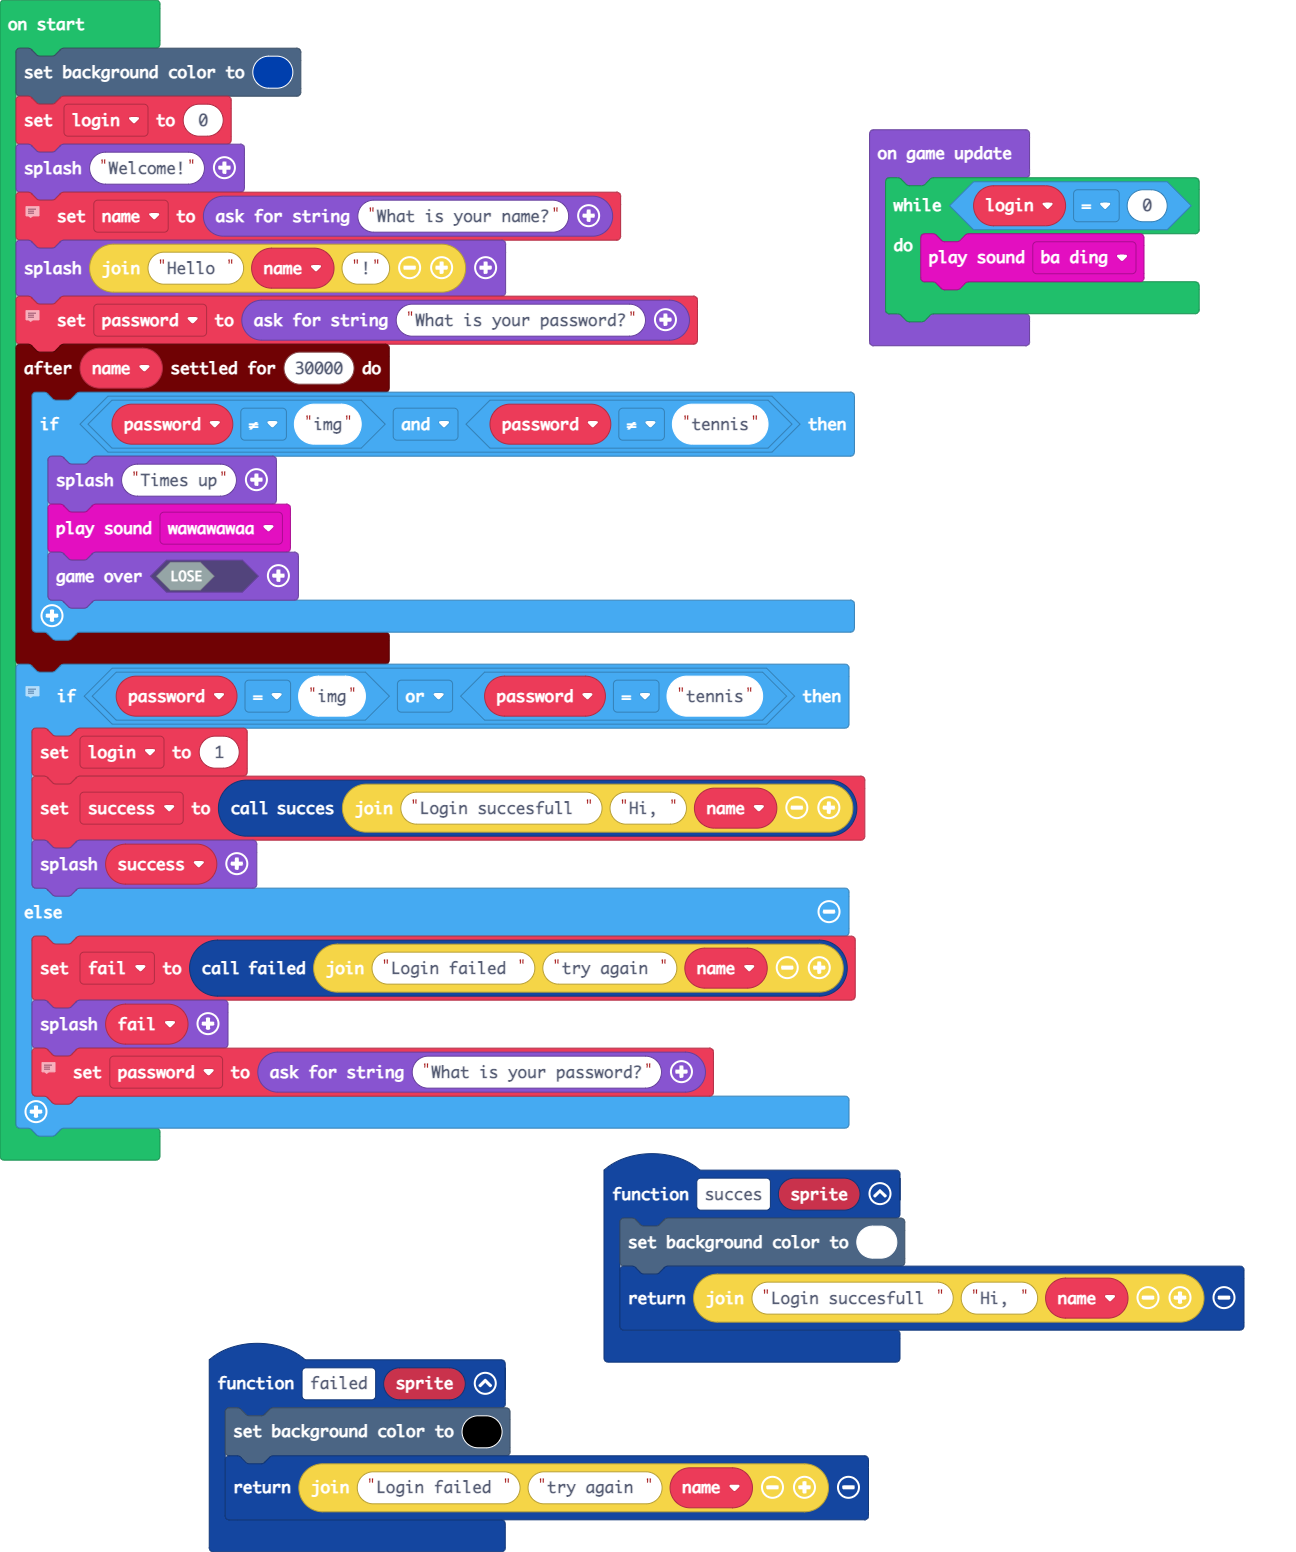
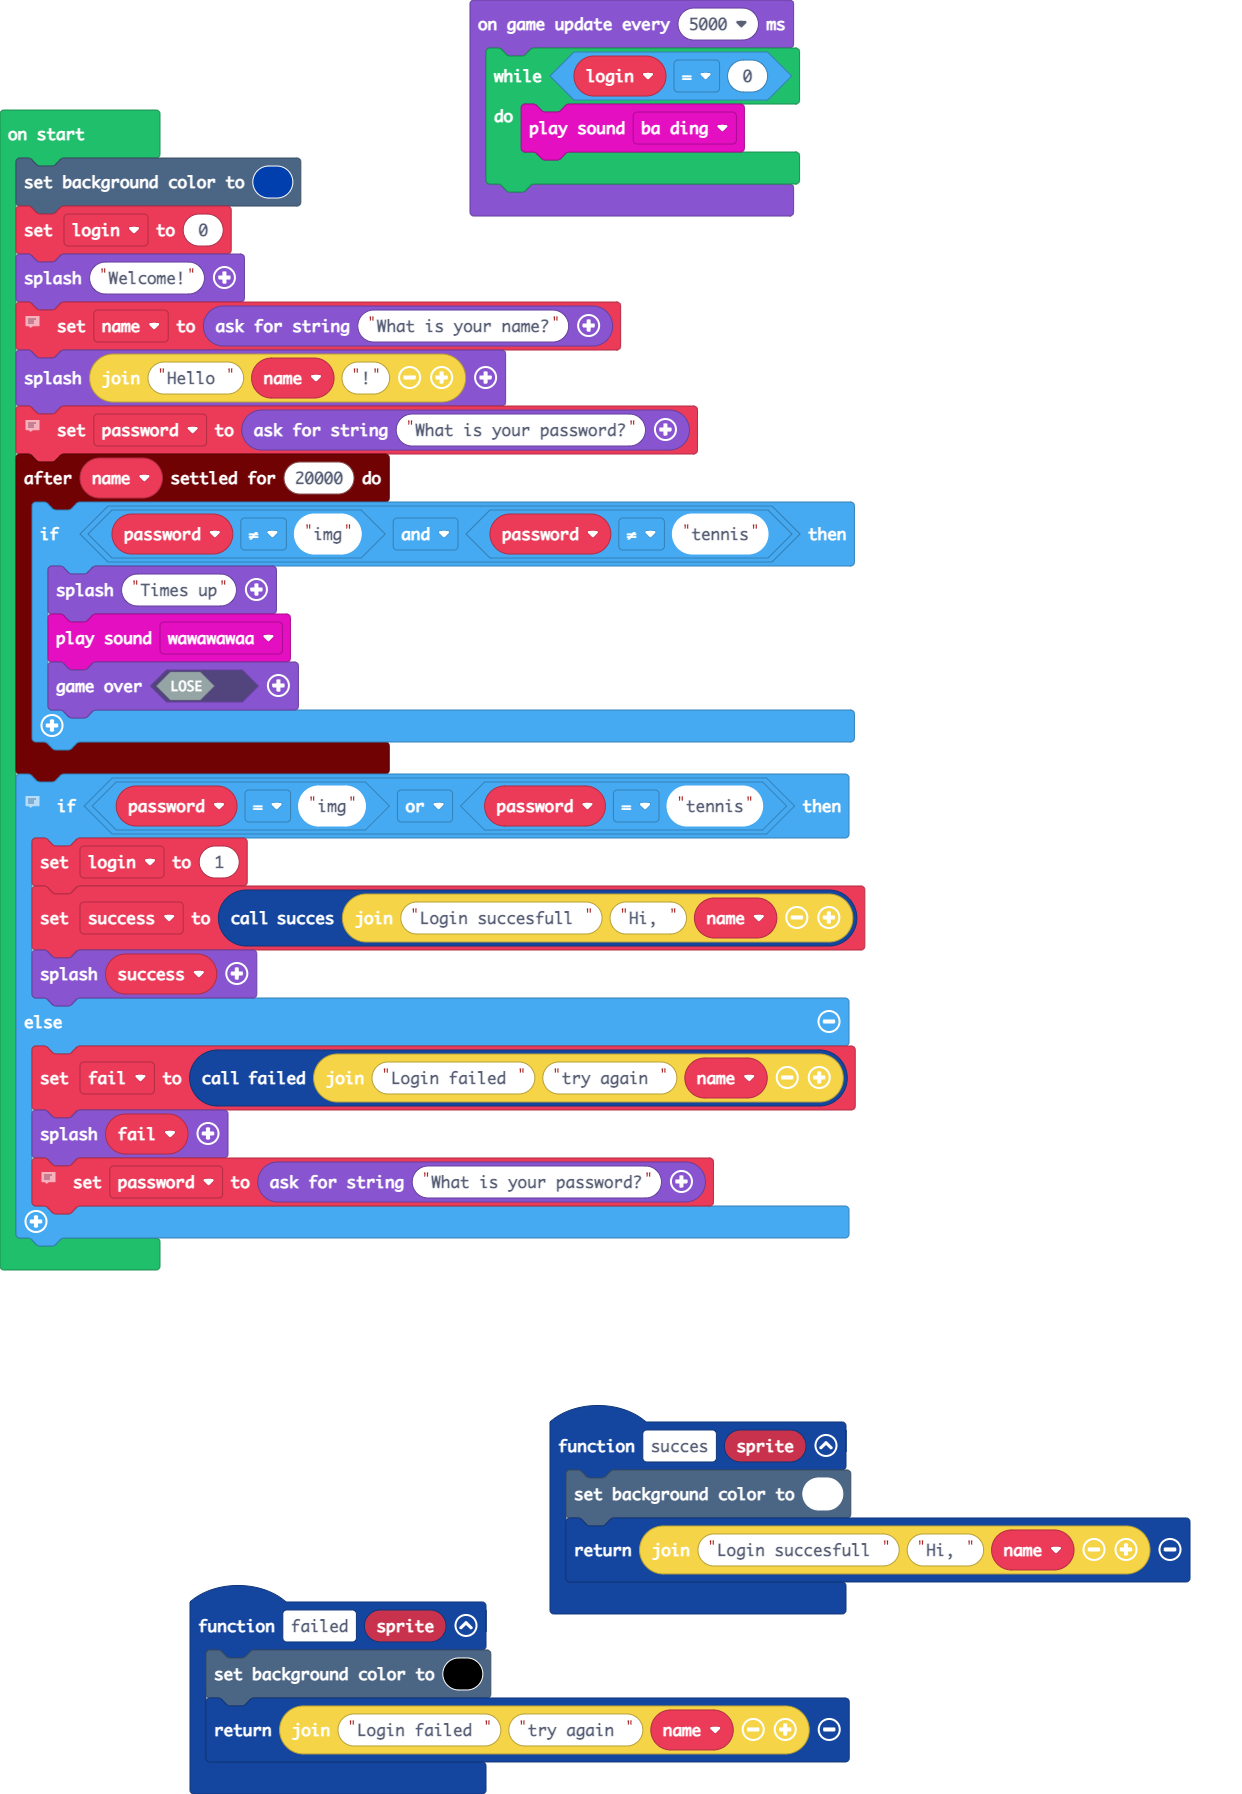
Update pxt.json, main.blocks, main.ts

diff --git a/main.ts b/main.ts
@@ -17,7 +17,7 @@ name = game.askForString("What is your name?")
 game.splash("Hello " + name + "!")
 // asks for what your password is
 let password = game.askForString("What is your password?")
-timer.debounce(name, 30000, function () {
+timer.debounce(name, 20000, function () {
     if (password != "img" && password != "tennis") {
         game.splash("Times up")
         music.wawawawaa.play()
@@ -35,7 +35,7 @@ if (password == "img" || password == "tennis") {
     // asks for what your password is
     password = game.askForString("What is your password?")
 }
-game.onUpdate(function () {
+game.onUpdateInterval(5000, function () {
     while (login == 0) {
         music.baDing.play()
     }
